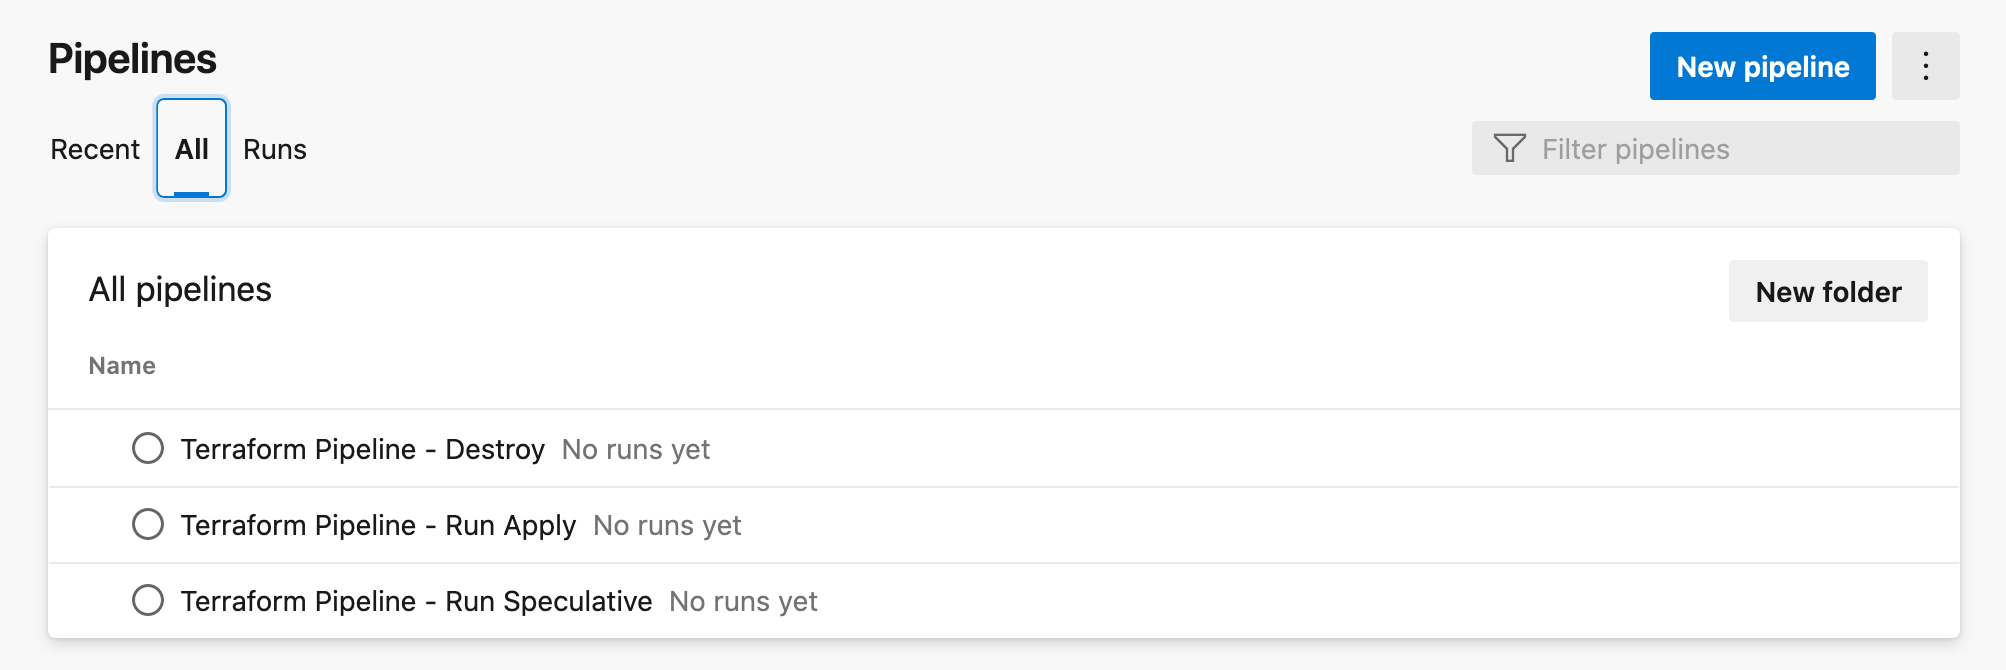
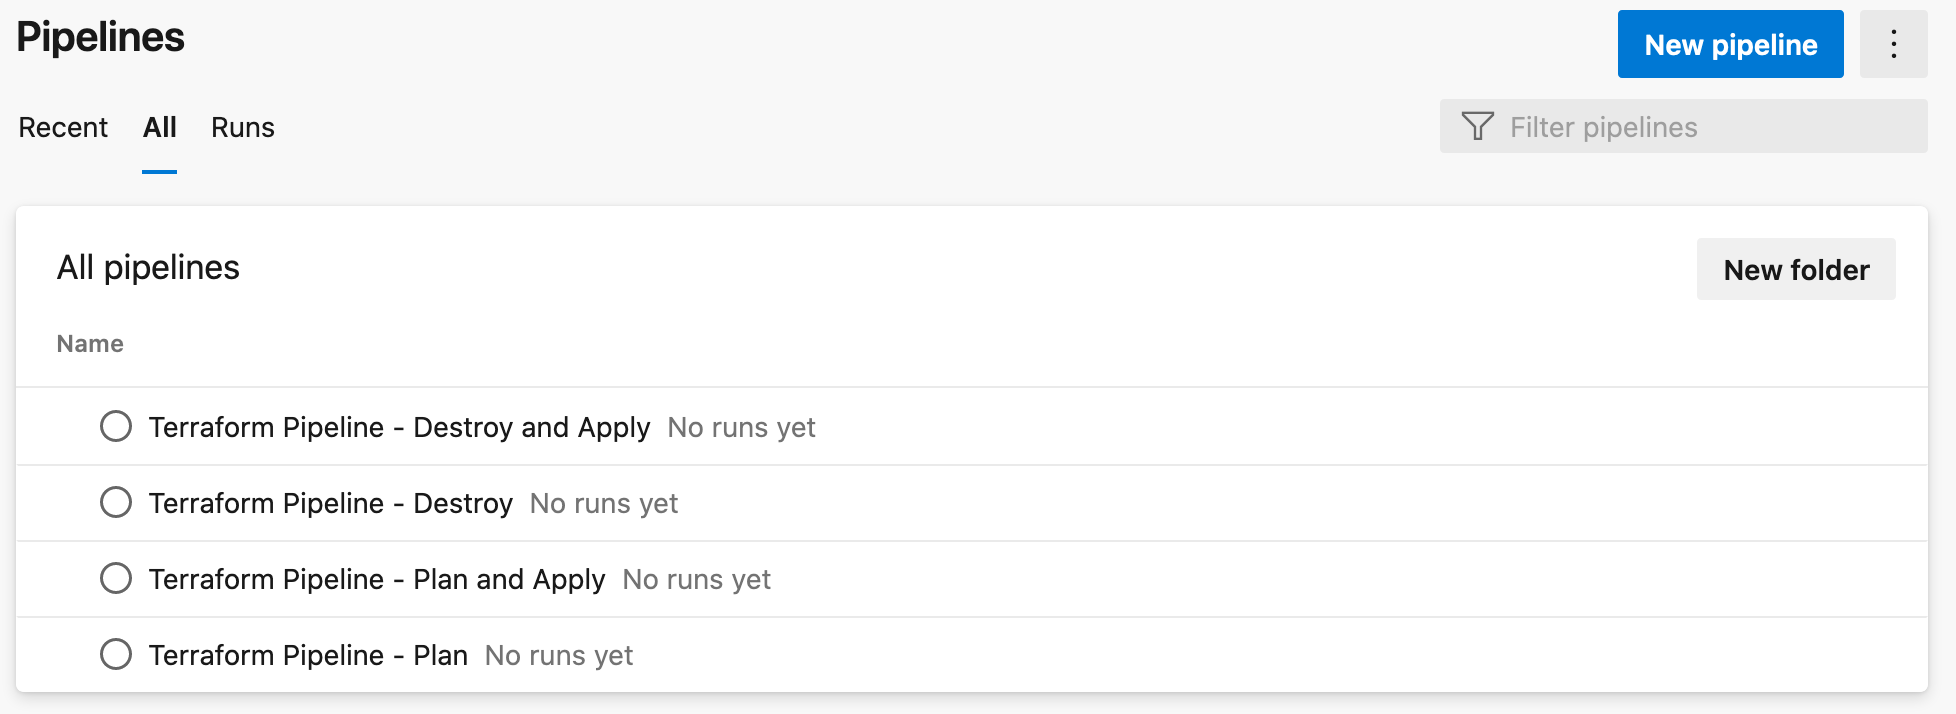
Updated pipeline permissions and Added destroy (#4) (#5)
* Updated permisions

* Updated destroy

* Docs and TF cleanup

diff --git a/repo-pipeline-code/tfe-run-plan.py b/repo-pipeline-code/tfe-run-plan.py
@@ -68,6 +68,7 @@ def parse_args(parser):
 
     # Update in case ADO boolean matching causes issues
     args.tfeSpeculativePlan = json.loads(args.tfeSpeculativePlan.lower())
+    args.tfeDestroyPlan = json.loads(args.tfeDestroyPlan.lower())
     print(f'##[debug]tfeSpeculativePlan:{args.tfeSpeculativePlan}')
     print(f'##[debug]tfeDestroyPlan:{args.tfeDestroyPlan}')
 

diff --git a/README.md b/README.md
@@ -18,15 +18,18 @@ The root of this repository contains Terraform to deploy the following:
   - Contains the pipeline .yml that references the templates in the other repo
 - TFE Workspace `ado-terraform-dev`
   - Will be the workspace the Build Pipelines integrate with
-- ADO Build Pipeline `Terraform Pipeline - Run Speculative`
+- ADO Build Pipeline `Terraform Pipeline - Plan`
   - Integrates to the TFE Workspace
-  - Performs a Speculative Plan
-- ADO Build Pipeline `Terraform Pipeline - Run Apply`
+  - Performs a Speculative Plan but does **not** apply
+- ADO Build Pipeline `Terraform Pipeline - Plan and Apply`
   - Integrates to the TFE Workspace
-  - Performs a Plan and Auto Apply
+  - Performs a Plan and then Auto Applies assuming no errors/policy failures
 - ADO Build Pipeline `Terraform Pipeline - Destroy`
   - Integrates to the TFE Workspace
-  - Performs a Destroy and Auto Apply
+  - Performs a Speculative Destroy but does **not** apply
+- ADO Build Pipeline `Terraform Pipeline - Destroy and Apply`
+  - Integrates to the TFE Workspace
+  - Performs a Destroy Plan and then Auto Applies assuming no errors/policy failures
 
 ### Getting Started
 
@@ -68,12 +71,6 @@ Trigger the Build Pipeline "Terraform Pipeline - Run Speculative":
 
 ![](images/ado-tfe-speculative-build.png)
 
-**Manual Step**
-
-On the first trigger of the Build Pipeline you will have to "Permit" the pipeline to communicate with the `terraform-pipeline` repo:
-
-![](images/ado-terraform-pipeline-permit.png)
-
 View the Pipeline execution and wait for it to complete:
 
 ![](images/ado-build-execution.png)
@@ -102,6 +99,12 @@ This repository leverages python as the underlying scripting language, in the ho
 ## Current Limitations
 
 - Pull request triggers not supported with Azure Repos, more info [here](https://docs.microsoft.com/en-us/azure/devops/pipelines/troubleshooting/troubleshooting?view=azure-devops#pull-request-triggers-not-supported-with-azure-repos)
+
+- Manual Step required to allow pipeline to access another repo in the same project.
+
+On the first trigger of the Build Pipeline you will have to "Permit" the pipeline to communicate with the `terraform-pipeline` repo:
+
+![](images/ado-terraform-pipeline-permit.png)
 
 ## Resources
 
